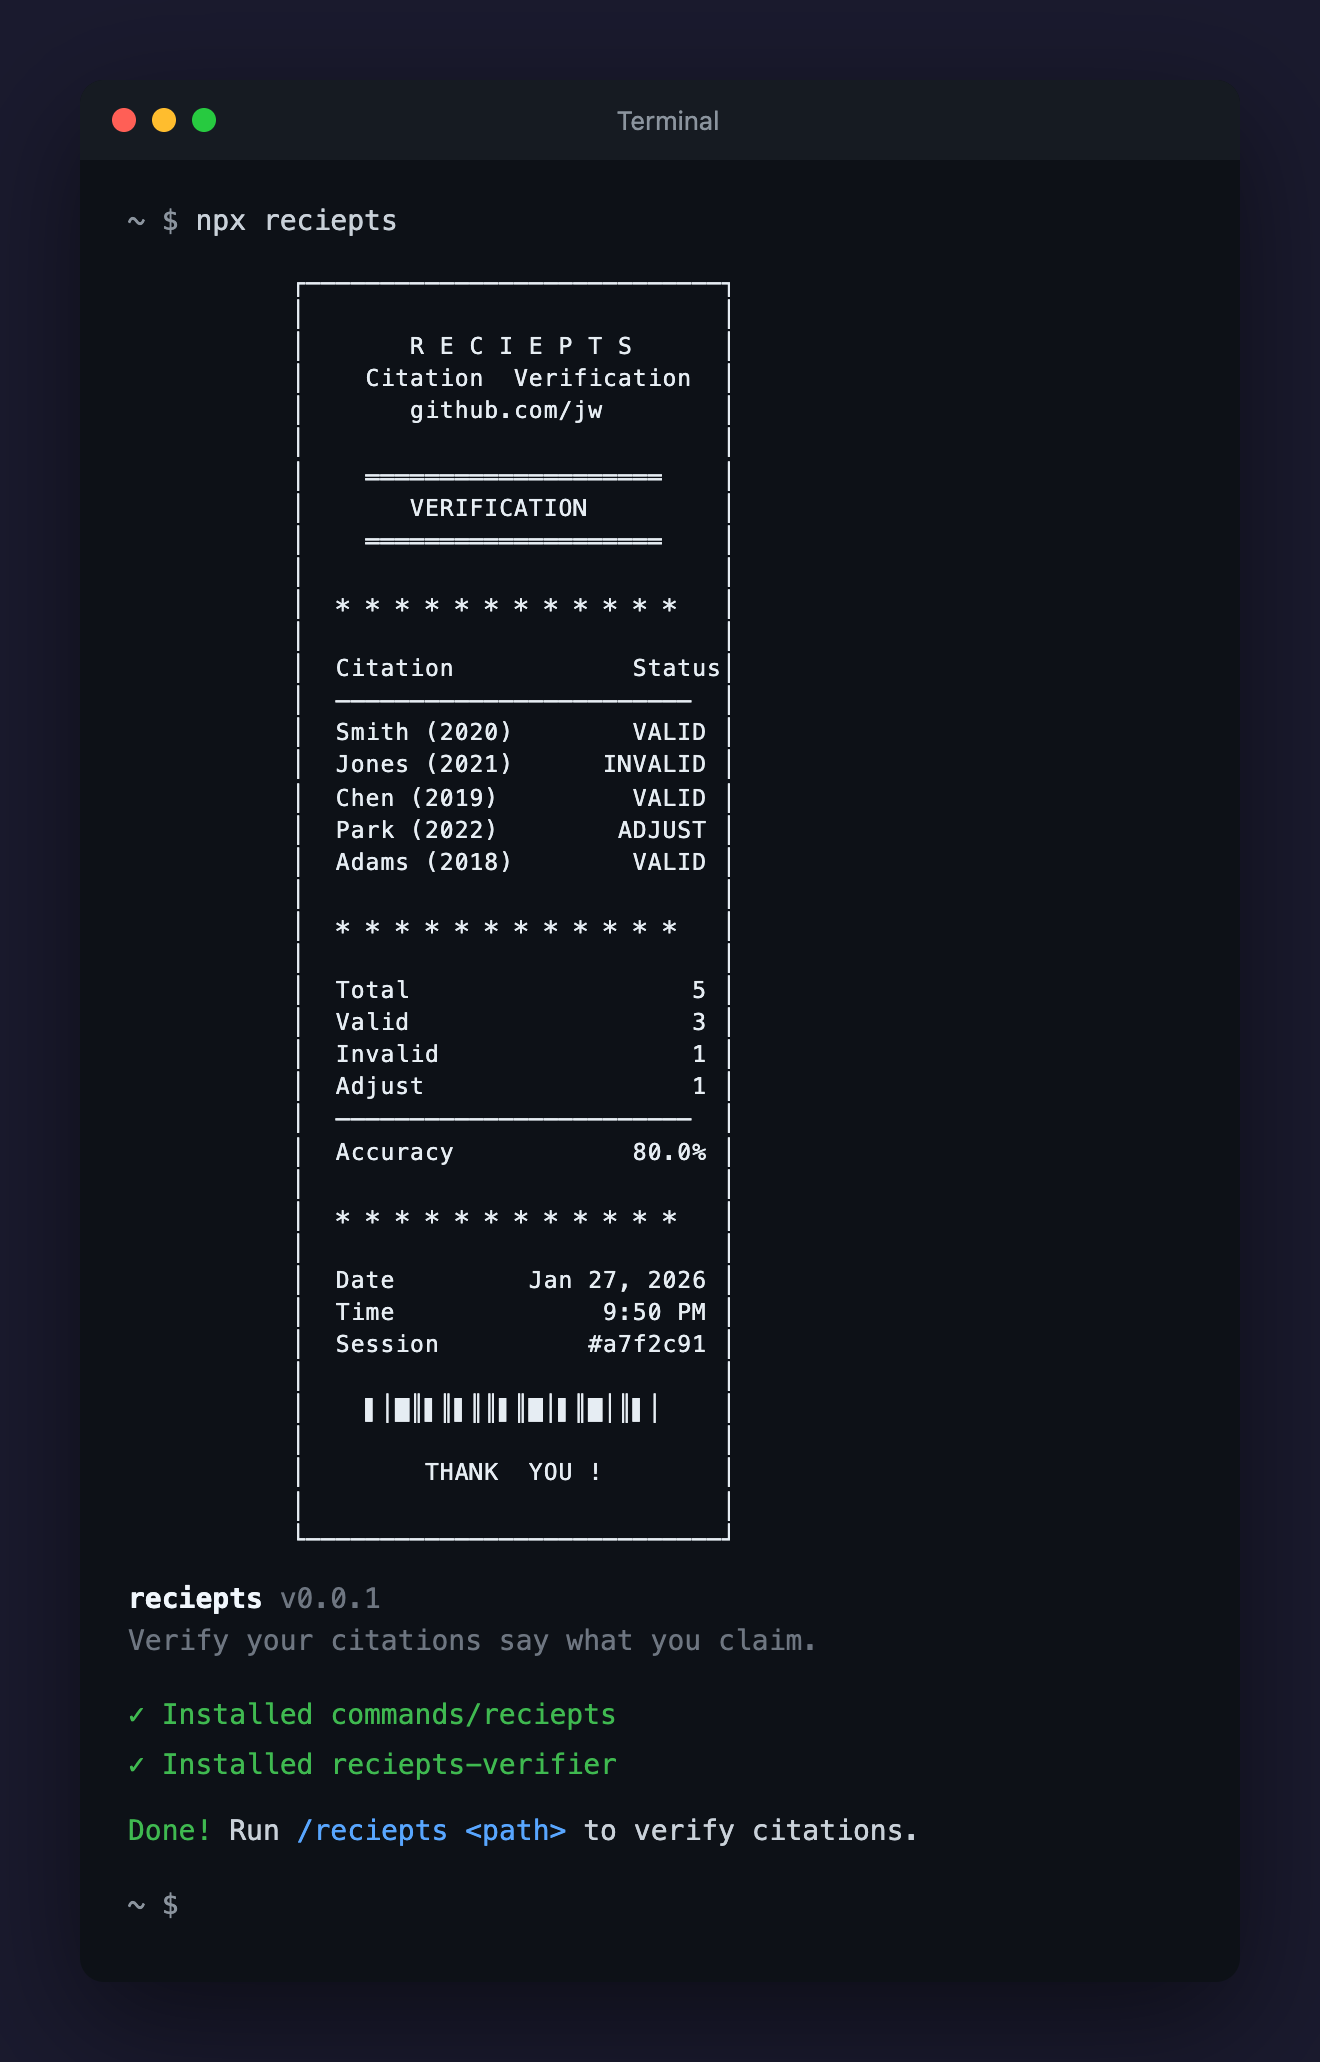
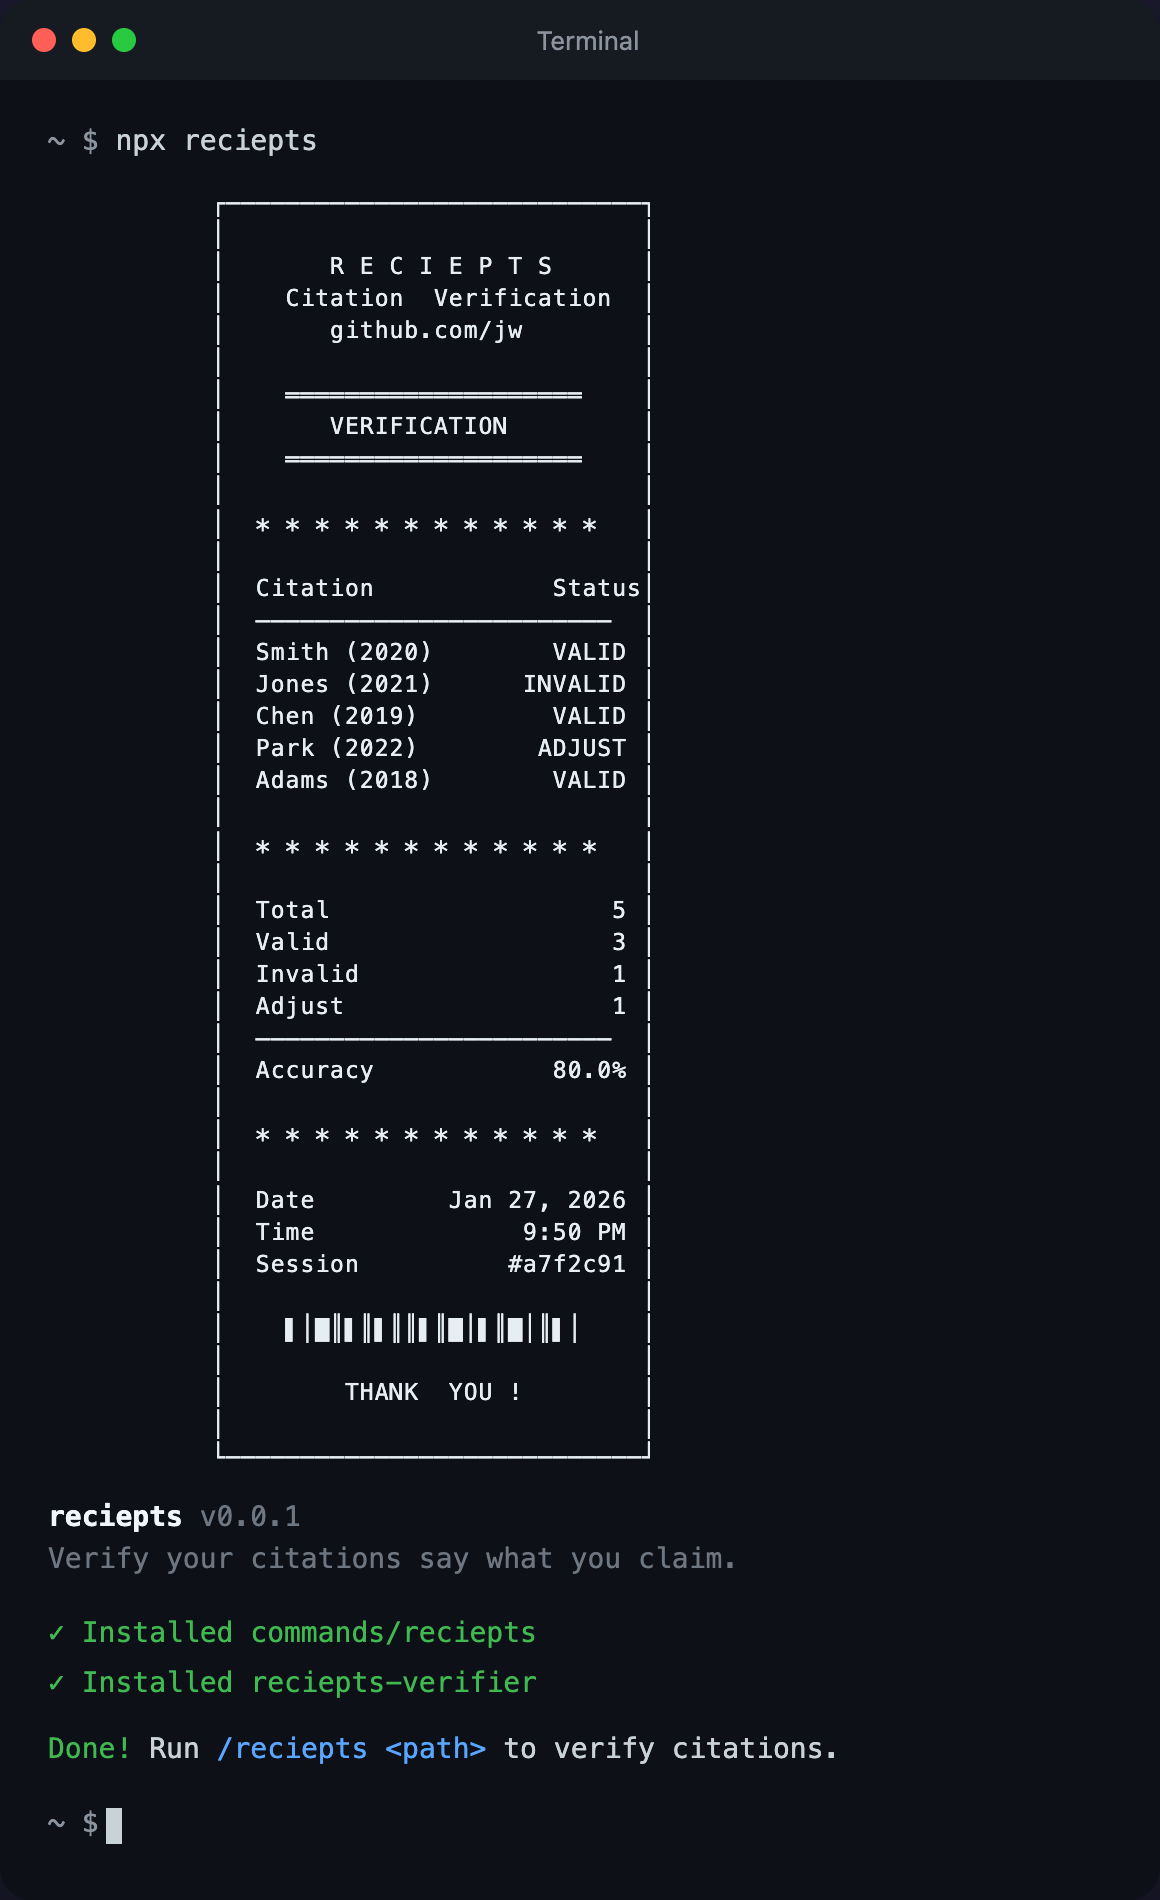
v0.5.1: Center README, crop screenshot perfectly
- Center all header content
- Perfectly cropped terminal screenshot (no border)
- Rounded corners with soft shadow
- Remove downloads badge (too new for stats)

diff --git a/bin/install.js b/bin/install.js
@@ -4,7 +4,7 @@ const fs = require('fs');
 const path = require('path');
 const os = require('os');
 
-const VERSION = '0.5.0';
+const VERSION = '0.5.1';
 const PACKAGE_NAME = 'reciepts';
 
 // Colors

diff --git a/README.md b/README.md
@@ -1,21 +1,32 @@
-# RECIEPTS
+<h1 align="center">RECIEPTS</h1>
 
-**Verify your citations actually say what you claim they say.**
+<p align="center">
+<strong>Verify your citations actually say what you claim they say.</strong>
+</p>
 
-Every academic knows the fear: *Did I remember that paper correctly?* You cited 50 sources. You're not re-reading all of them. Neither is your reviewer. But what if one says the opposite of what you wrote?
+<p align="center">
+Every academic knows the fear: <em>Did I remember that paper correctly?</em> You cited 50 sources. You're not re-reading all of them. Neither is your reviewer. But what if one says the opposite of what you wrote?
+</p>
 
-[![npm version](https://img.shields.io/npm/v/reciepts.svg)](https://www.npmjs.com/package/reciepts)
-[![npm downloads](https://img.shields.io/npm/dm/reciepts.svg)](https://www.npmjs.com/package/reciepts)
-[![License: MIT](https://img.shields.io/badge/License-MIT-yellow.svg)](https://opensource.org/licenses/MIT)
+<p align="center">
+<a href="https://www.npmjs.com/package/reciepts"><img src="https://img.shields.io/npm/v/reciepts.svg" alt="npm version"></a>
+<a href="https://opensource.org/licenses/MIT"><img src="https://img.shields.io/badge/License-MIT-yellow.svg" alt="License: MIT"></a>
+</p>
+
+<p align="center">
 
 ```bash
 npx reciepts
 ```
 
-Works on Mac, Windows, and Linux.
+</p>
 
 <p align="center">
-  <img src="assets/terminal.png" alt="reciepts install" width="500">
+Works on Mac, Windows, and Linux.
+</p>
+
+<p align="center">
+  <img src="assets/terminal.png" alt="reciepts install" width="600">
 </p>
 
 ---
@@ -147,4 +158,6 @@ MIT
 
 ---
 
-**Your citations are only as good as your memory. reciepts is better than your memory.**
+<p align="center">
+<strong>Your citations are only as good as your memory. reciepts is better than your memory.</strong>
+</p>
